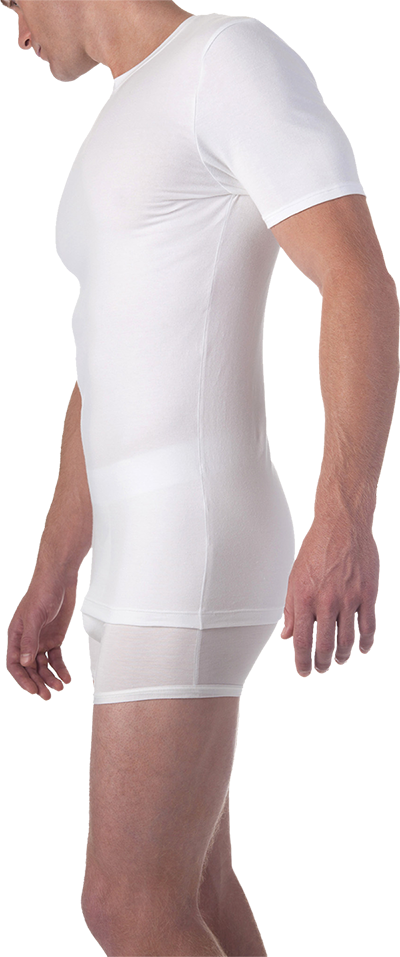
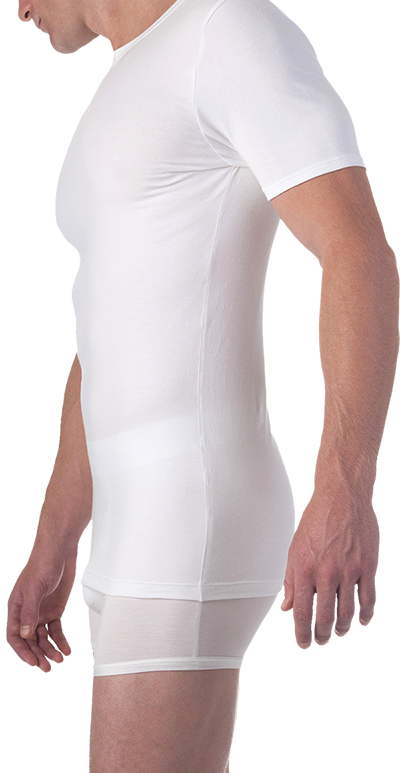
Updated based on client requests:     About page     Referral page, with accompanying Thank you page     Cropped photos in home page stage and featurettes     open links with rel="external" in new windows via JS     Product attributes on product page have new look to support images

diff --git a/templates/css/state.css b/templates/css/state.css
@@ -148,7 +148,7 @@ body:after { content: 'default'; display: none; } /* JS Hook for responsive vari
 		text-align: left;
 	}
 	
-	/* --- @medium2 featurettes --- */
+	/* --- @medium featurettes --- */
 	.m-primary-feature {
 		min-height: 15em;
 	}
@@ -157,6 +157,8 @@ body:after { content: 'default'; display: none; } /* JS Hook for responsive vari
 	.image-viewer-display {
 		margin-left: 20%;
 	}
+	
+
 
 }
 @media screen and (min-width: 50em) {
@@ -164,6 +166,17 @@ body:after { content: 'default'; display: none; } /* JS Hook for responsive vari
 	
 	/* --- @medium2 Base --- */
 	body { font-size: 112.5%; }
+	
+	.pull-left {
+		float: left;
+		margin-right: 1.5em;
+	}
+
+	.pull-right {
+		float: right;
+		margin-left: 1.5em;
+	}
+	
 	
 	/* --- @medium2 Stage --- */
 	.m-stage {
@@ -196,8 +209,7 @@ body:after { content: 'default'; display: none; } /* JS Hook for responsive vari
 		
 		/* --- @medium2 product attributes --- */
 		.product-attr {
-			display: inline-block;
-			width: 50%;
+			width: 80%;
 		}
 	
 	/* --- @medium2 modal --- */
@@ -313,11 +325,15 @@ body:after { content: 'default'; display: none; } /* JS Hook for responsive vari
 		min-height: 16em;
 	}
 	
+	/* --- @large2 Promos --- */
+	.m-home-promo img.pull-left {
+		float: left;
+	}
+	
 	/* --- @large product attributes --- */
-/*	.product-attr {
-		min-height: 9em;
-		width: 25%;
-	}*/
+	.product-attr {
+		width: 50%;
+	}
 }
 @media screen and (min-width: 90em) {	
 	body:after { content: 'wide'; } /* JS Hook for responsive variables */

diff --git a/templates/css/modules/m-product-attribute.css b/templates/css/modules/m-product-attribute.css
@@ -11,20 +11,31 @@
 	background-color: #F1F1F1;
 	border: solid #ddd;
 	border-color: rgba(0, 0, 0, 0.125);
-	border-width: 1px 0 1px 1px;
-	margin-top: -1px;
-	min-height: 8em;
-	padding: 1.5em;
-	text-align: center;
-	vertical-align: top;
+	border-width: 1px 1px 0;
+	margin: auto;
+	overflow: hidden;
+	text-align: left;
 }
+	.product-attr:last-child {
+		border-bottom-width: 1px;
+	}
 
-	.product-attr-title,
-	.product-attr-desc {
-		margin-bottom: 0;
+	.product-attr-img {
+		float: left;
+		margin-right: 3em;
 	}
 	
-	.product-attr-desc {
-		font-size: .888888889em;
+	.product-attr-content {
+		padding-right: 3em;
+		padding-top: 3em;
 	}
+
+		.product-attr-title,
+		.product-attr-desc {
+			margin-bottom: 0;
+		}
+	
+		.product-attr-desc {
+			font-size: .888888889em;
+		}
 	

diff --git a/templates/css/theme.css b/templates/css/theme.css
@@ -91,6 +91,14 @@ a.clean {
 
 small { color: #999; }
 
+/* lists */
+.standard-list {
+	font-size: .888888889em;
+}
+.standard-list li {
+	margin-bottom: .75em;
+}
+
 /* Buttons */
 .btn {
 	background-color: #40190b; /*@t-brown*/
@@ -660,7 +668,7 @@ Modules
 	margin-top: -12.5%;
 	padding: 1.5em;
 	position: absolute;
-	top: 50%;
+	top: 45%;
 	left: 0;
 	right: 0;
 }
@@ -747,8 +755,8 @@ Modules
 	
 	/* undershirt positioning */
 	.tech-item a[href="#tailored-stretch"] {
-		left: 55%;
-		top: 50%;
+		left: 57%;
+		top: 70%;
 	}
 	.tech-item a[href="#micro-modal"] {
 		left: 35%;

diff --git a/templates/scripts/script.js b/templates/scripts/script.js
@@ -11,6 +11,12 @@ $(document).ready(function() {
 	// Smooth scrolling anchors
 	$('[href^=#]').smoothmove();
 
+	// New windows
+	$('[rel=external]').click(function() {
+		window.open( $(this).attr('href') );
+		return false;
+	});
+
 	//checkout saved address handling
 	$('#saved-location').change(function(){
 		// var target = '#' + $( '#saved-location option[value!=""]:selected' ).val();

diff --git a/templates/css/layout.css b/templates/css/layout.css
@@ -18,6 +18,7 @@ hr.space { border: none; border-width: 0; clear: both; margin: 22px 0 22px; heig
 
 .no-margin { margin:0 !important; }
 
+
 /* grid */
 
 .padded { padding:1.5em }
@@ -26,7 +27,6 @@ hr.space { border: none; border-width: 0; clear: both; margin: 22px 0 22px; heig
 
 
 /* forms */
-
 select.inline { width:auto; }
 
 fieldset.collapsed { padding: 0; }

diff --git a/templates/css/modules/m-feature.css b/templates/css/modules/m-feature.css
@@ -129,6 +129,10 @@
 		font-size: 1.333333333em;
 		margin-bottom: 0;
 	}
+	
+	.m-secondary-feature:hover .sf-title {
+		color: #40190b;
+	}
 
 	.m-secondary-feature.second-skin:hover,
 	.m-secondary-feature.second-skin .sf-meta { background-color: #65c7be; }

diff --git a/templates/css/base.css b/templates/css/base.css
@@ -279,7 +279,11 @@
 		        transition: color .125s, background .125s;
 	}
 	
-	a:hover {
+	a:hover,
+	a:hover h1,
+	a:hover h2,
+	a:hover h3,
+	a:hover h4 {
 		color: #0088cc; /*@tj-blue*/
 	}
 	

diff --git a/templates/css/modules/m-promo.css b/templates/css/modules/m-promo.css
@@ -3,3 +3,7 @@
 	display: block;
 	padding: 3em 1.5em;
 }
+
+	.m-home-promo img.pull-left {
+		float: none;
+	}
